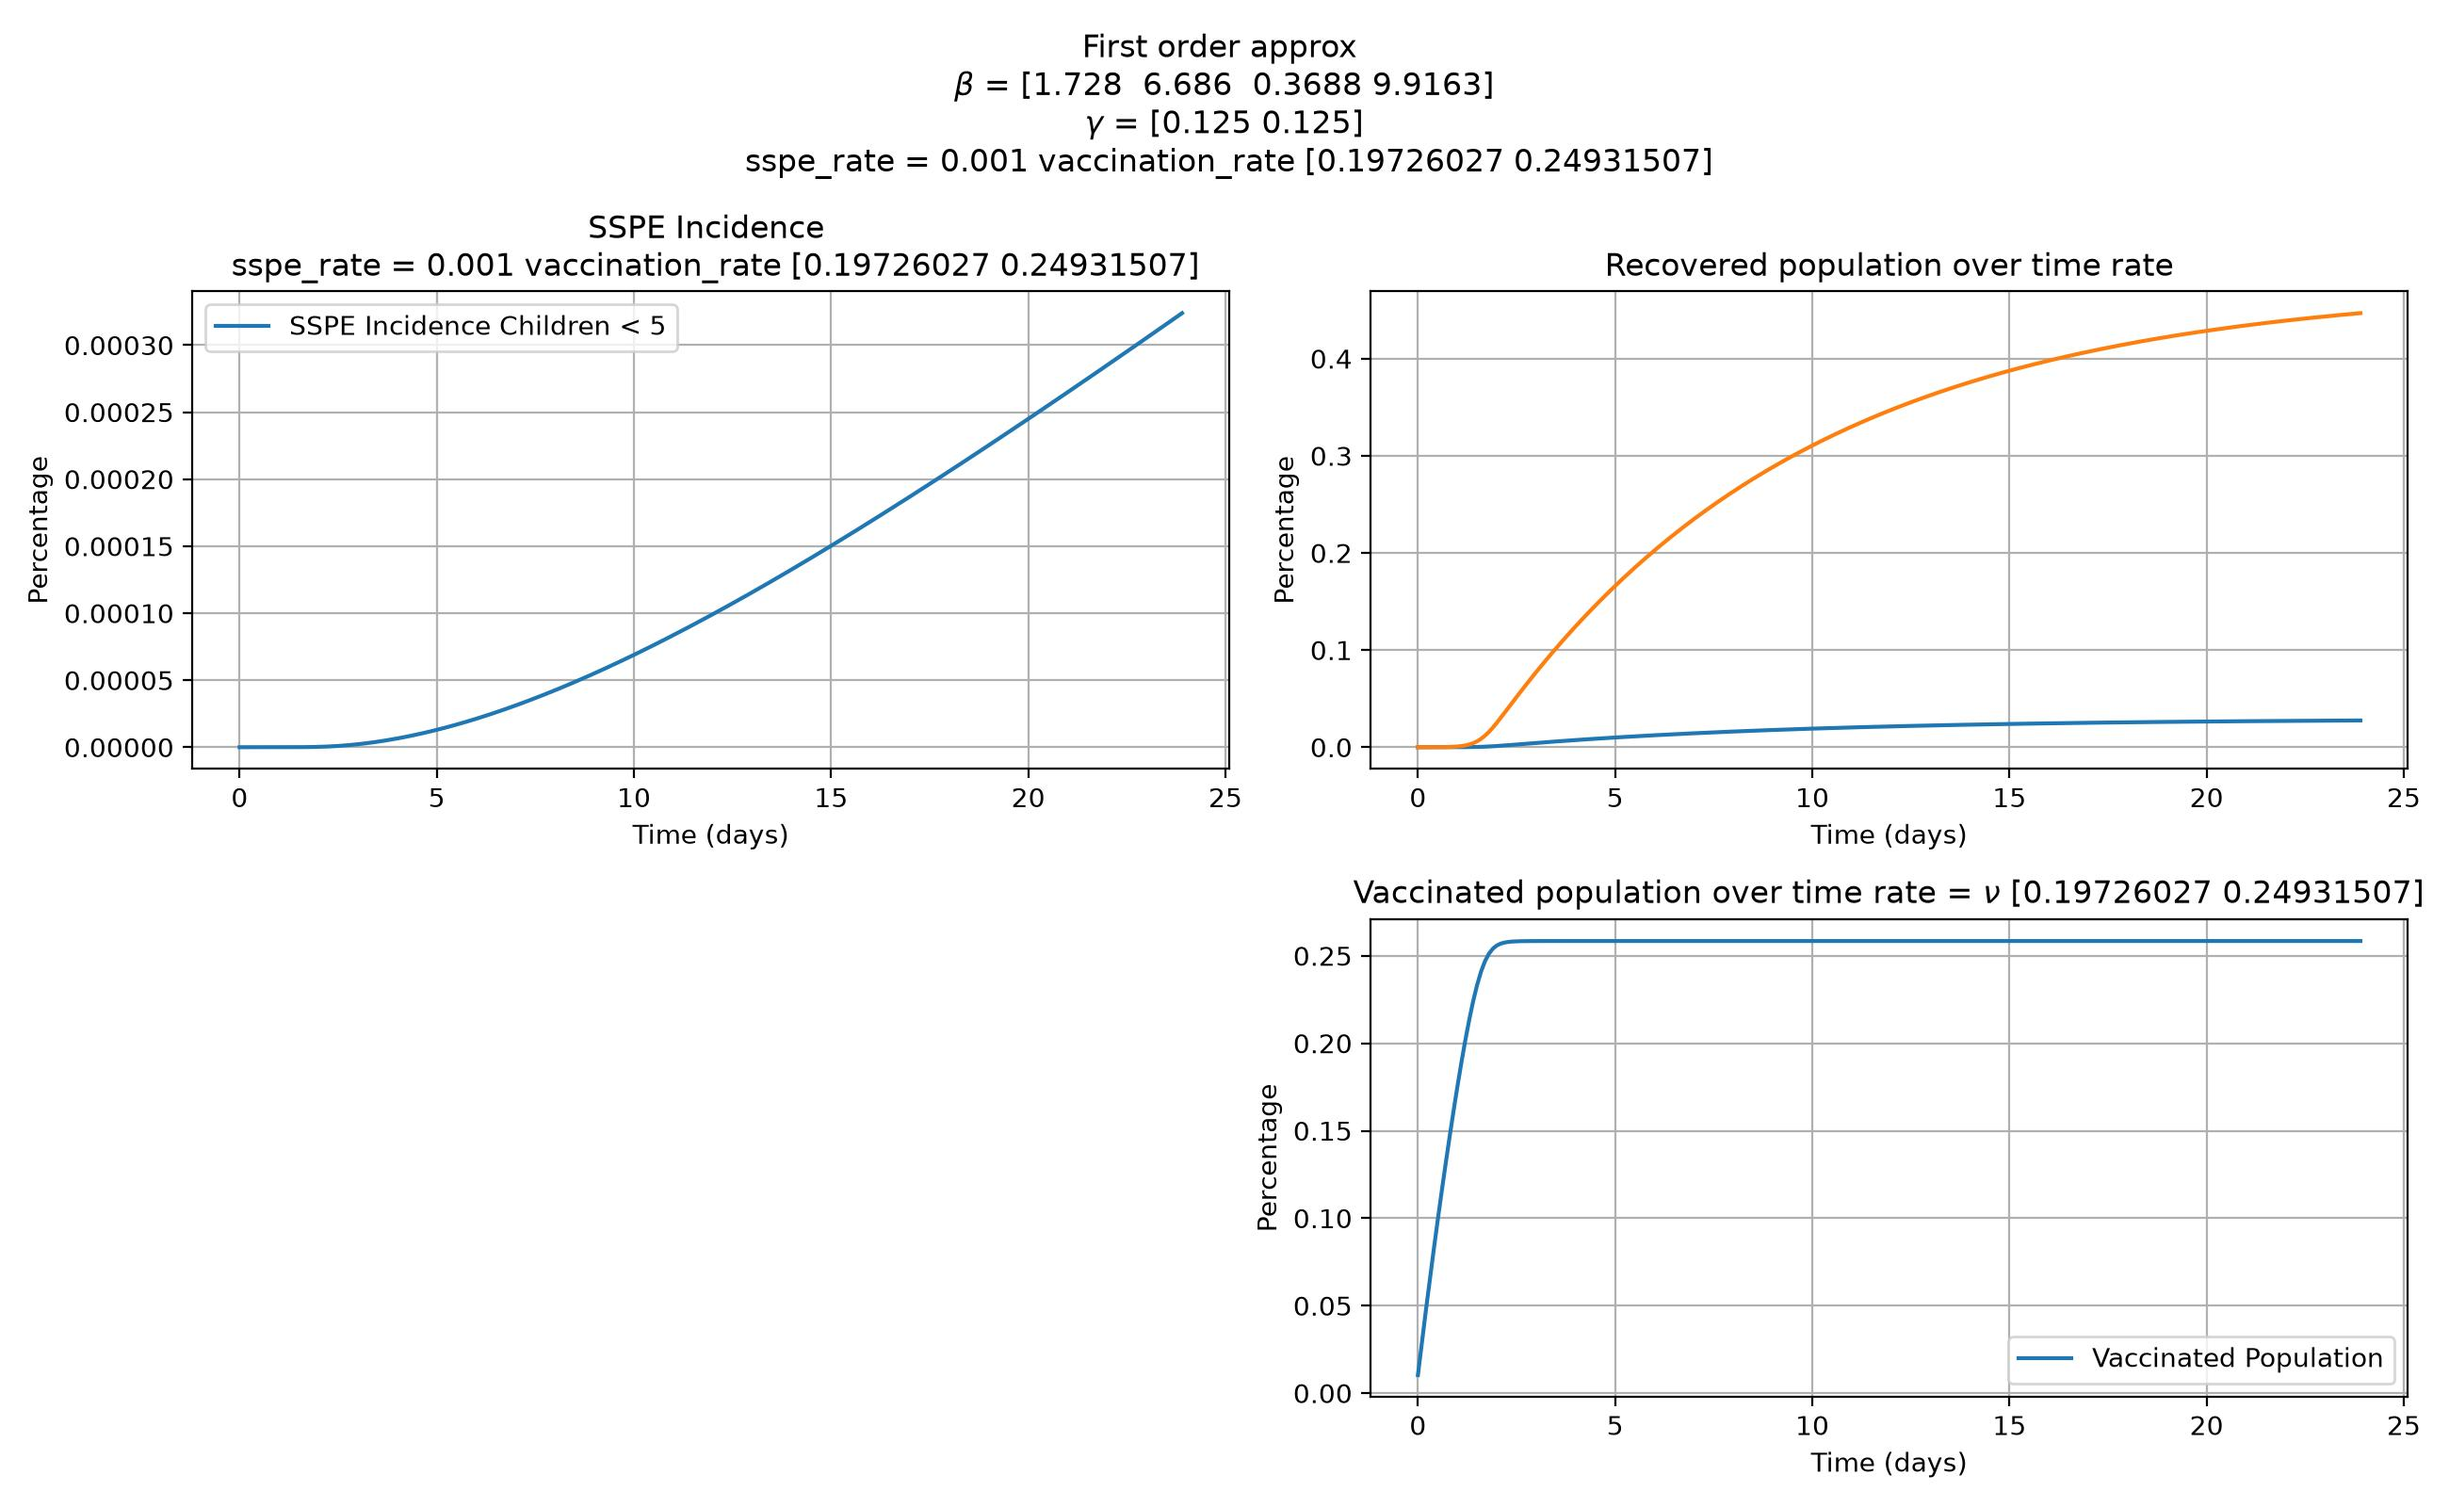
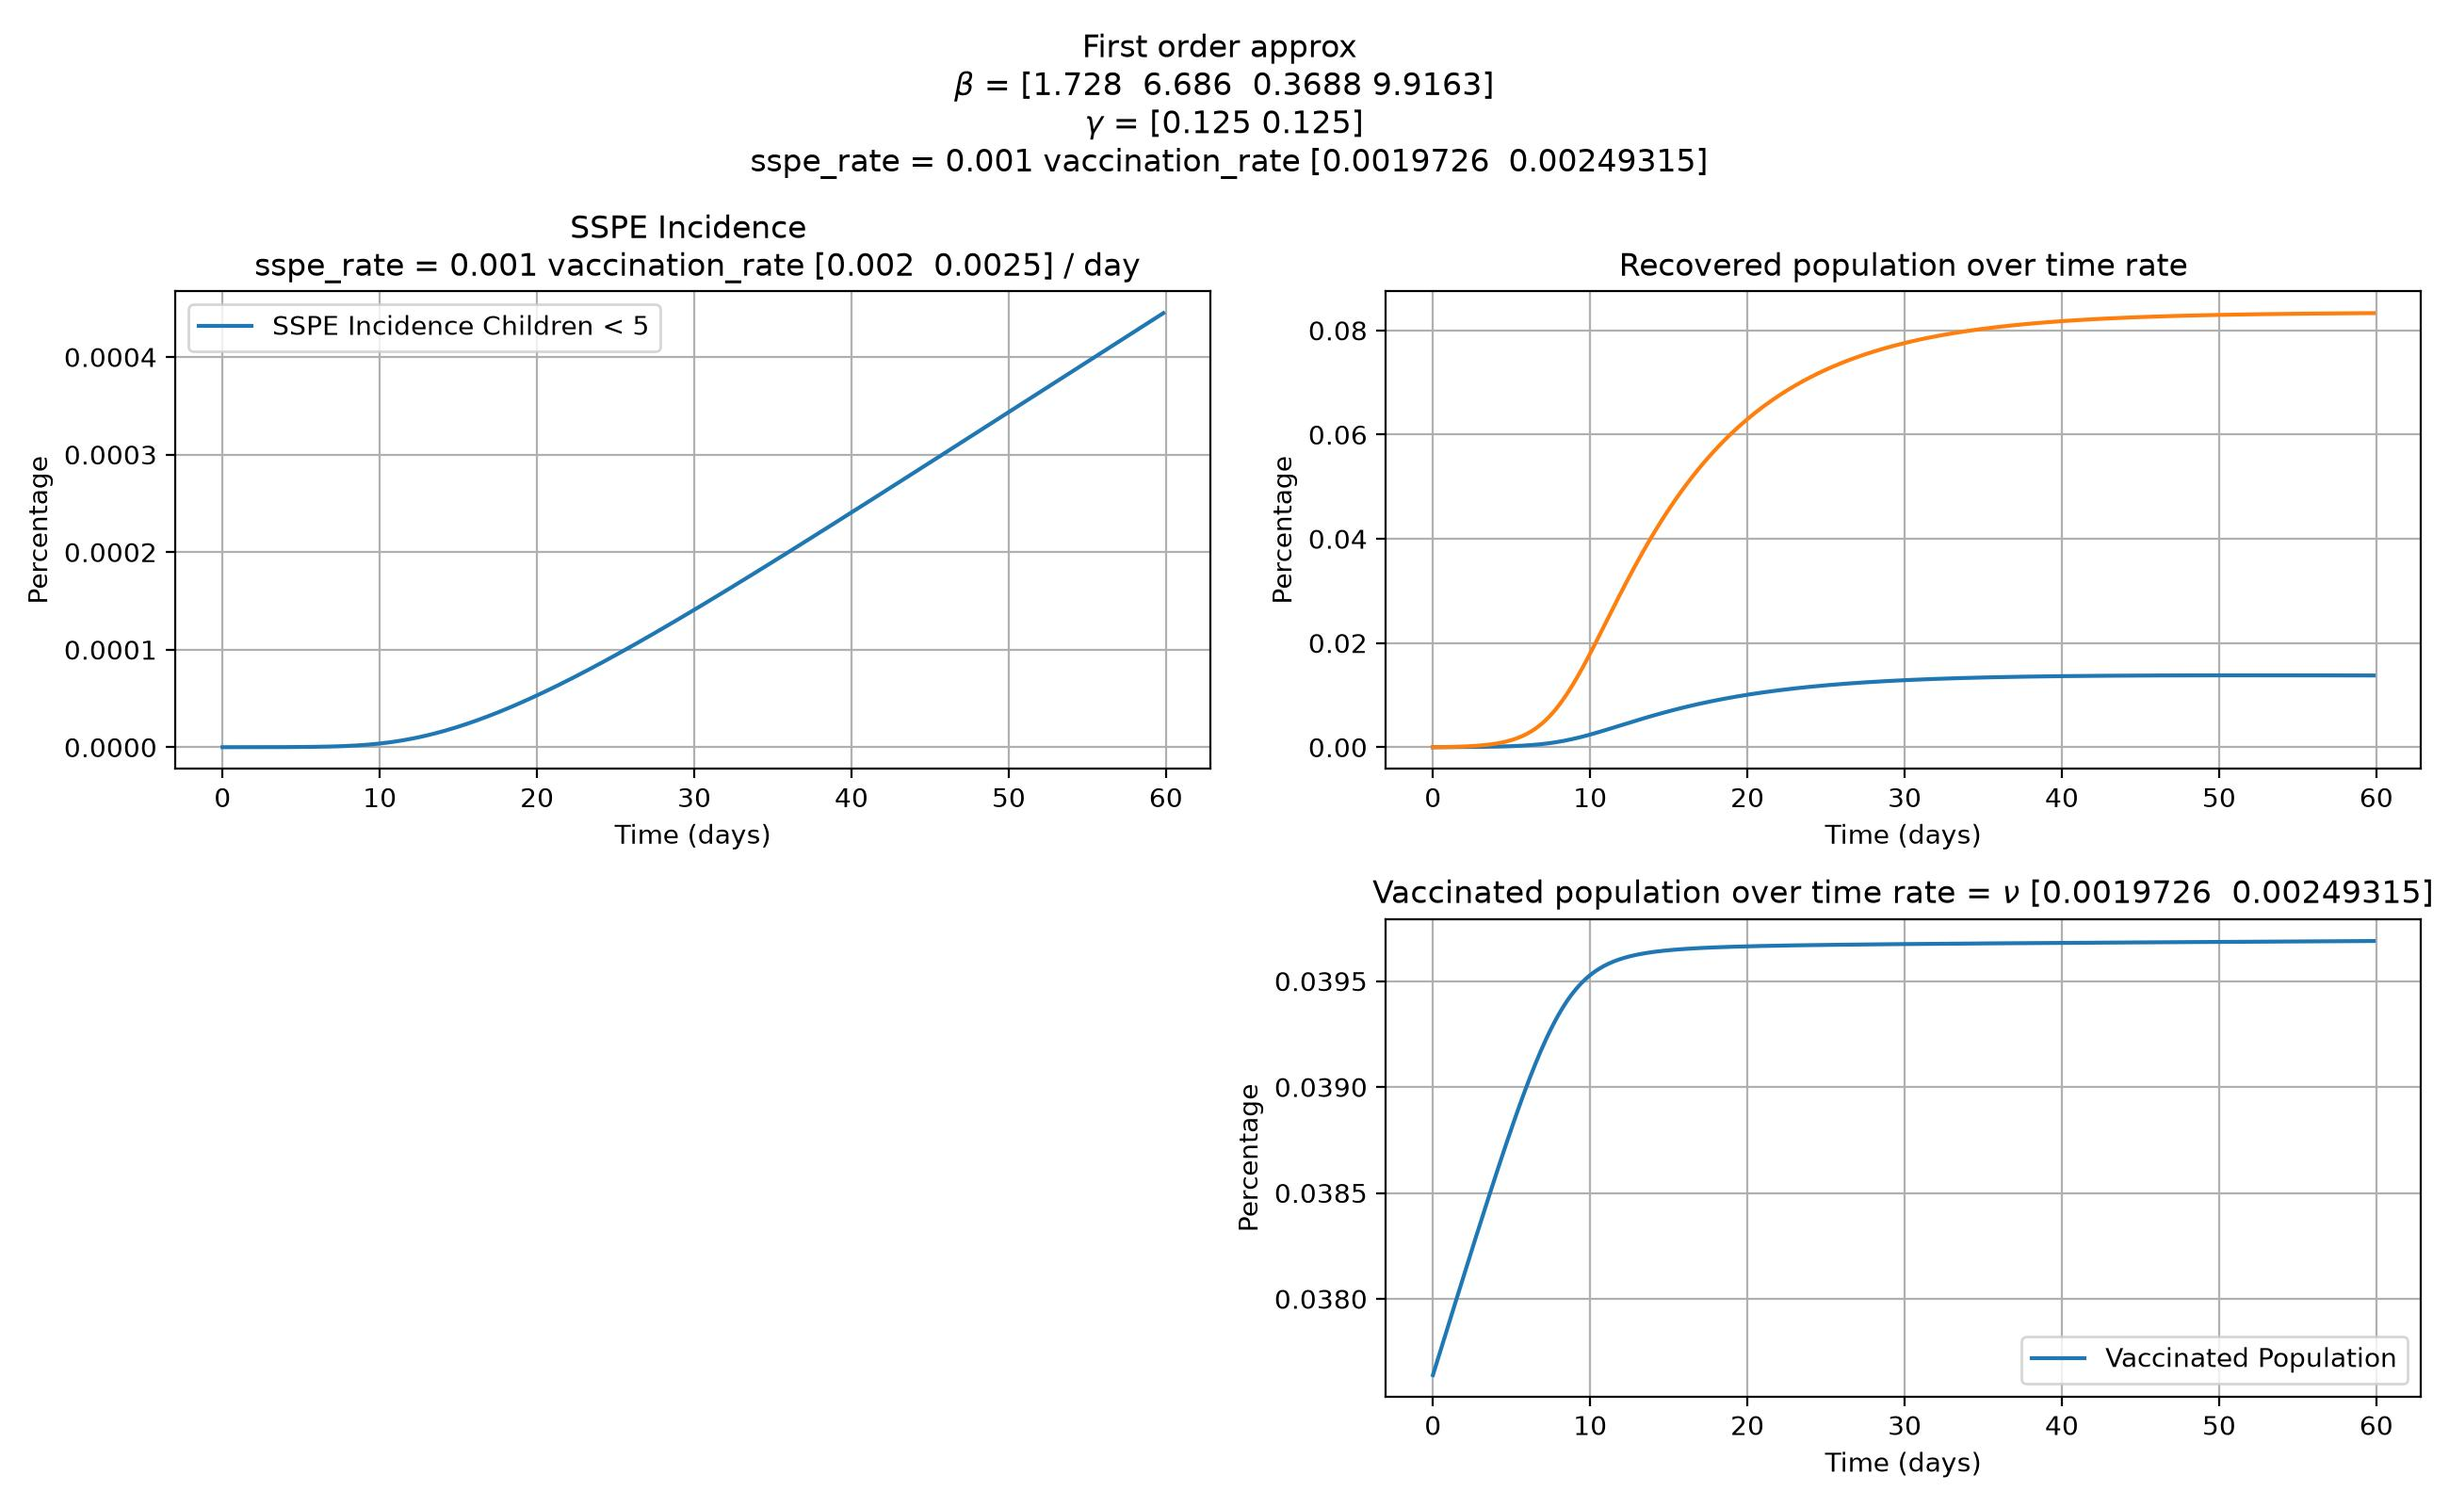
updated plots with proper scaling

diff --git a/run_model.py b/run_model.py
@@ -47,9 +47,9 @@ gamma = np.array([1/8,1/8])
 #delta = np.random.uniform(0,0.05)
 delta = 1 / 1336
 delta = np.array([delta,0])
-nu = (1/365)*np.array([72,91])
+nu = (1/365)*np.array([.72,.91])
 pop_1,pop_2 = data_processing()
-vpop_1, vpop_2 = nu[0]*pop_1,nu[1]*pop_2
+vpop_1, vpop_2 = 0.72*pop_1,0.91*pop_2
 infpop_1, infpop_2 = give_I()
 suspop_1,suspop_2 = pop_1 -infpop_1-vpop_1, pop_2-infpop_2-vpop_2
 print(suspop_1,suspop_2)
@@ -59,7 +59,7 @@ initial_r = np.zeros(2)
 initial_b = np.zeros(2)
 initial_v = np.array([vpop_1,vpop_2])
 initial = np.column_stack([initial_s,initial_i,initial_r,initial_b,initial_v])
-points = taylor_system_14(SSPE,initial,0,24,240)
+points = taylor_system_14(SSPE,initial,0,60,360)
 t = points[0,:]
 s_1 = points[1,:]
 s_2 = points[2,:]
@@ -81,7 +81,7 @@ plt.plot(t,b_1, label='SSPE Incidence')
 #plt.plot(t,v_1, label='Vaccinated population')
 plt.xlabel('Time (days)')
 plt.ylabel('Percentage')
-plt.title(rf"First order approx {'\n'} $\beta$ = {beta} {'\n'} $\gamma$ = {gamma} {'\n'} sspe_rate = {np.round(delta[0],3)} Vaccination rate {nu}")
+plt.title(rf"First order approx {'\n'} $\beta$ = {beta} {'\n'} $\gamma$ = {gamma} {'\n'} sspe_rate = {np.round(delta[0],3)} Vaccination rate {np.round(nu,4)}/day")
 plt.grid()
 plt.legend()
 plt.tight_layout()
@@ -94,7 +94,7 @@ fig, ax = plt.subplots(2,2,figsize=(13,8))
 ax[0,0].plot(t,b_1, label='SSPE Incidence Children < 5')
 ax[0,0].set_xlabel('Time (days)')
 ax[0,0].set_ylabel('Percentage')
-ax[0,0].set_title(f"SSPE Incidence \n sspe_rate = {np.round(delta[0],3)} vaccination_rate {nu}")
+ax[0,0].set_title(f"SSPE Incidence \n sspe_rate = {np.round(delta[0],3)} vaccination_rate {np.round(nu,4)} / day")
 ax[0,0].grid()
 ax[0,0].legend()
 ax[0,1].plot(t,r_1, label='Recovered Children < 5')
